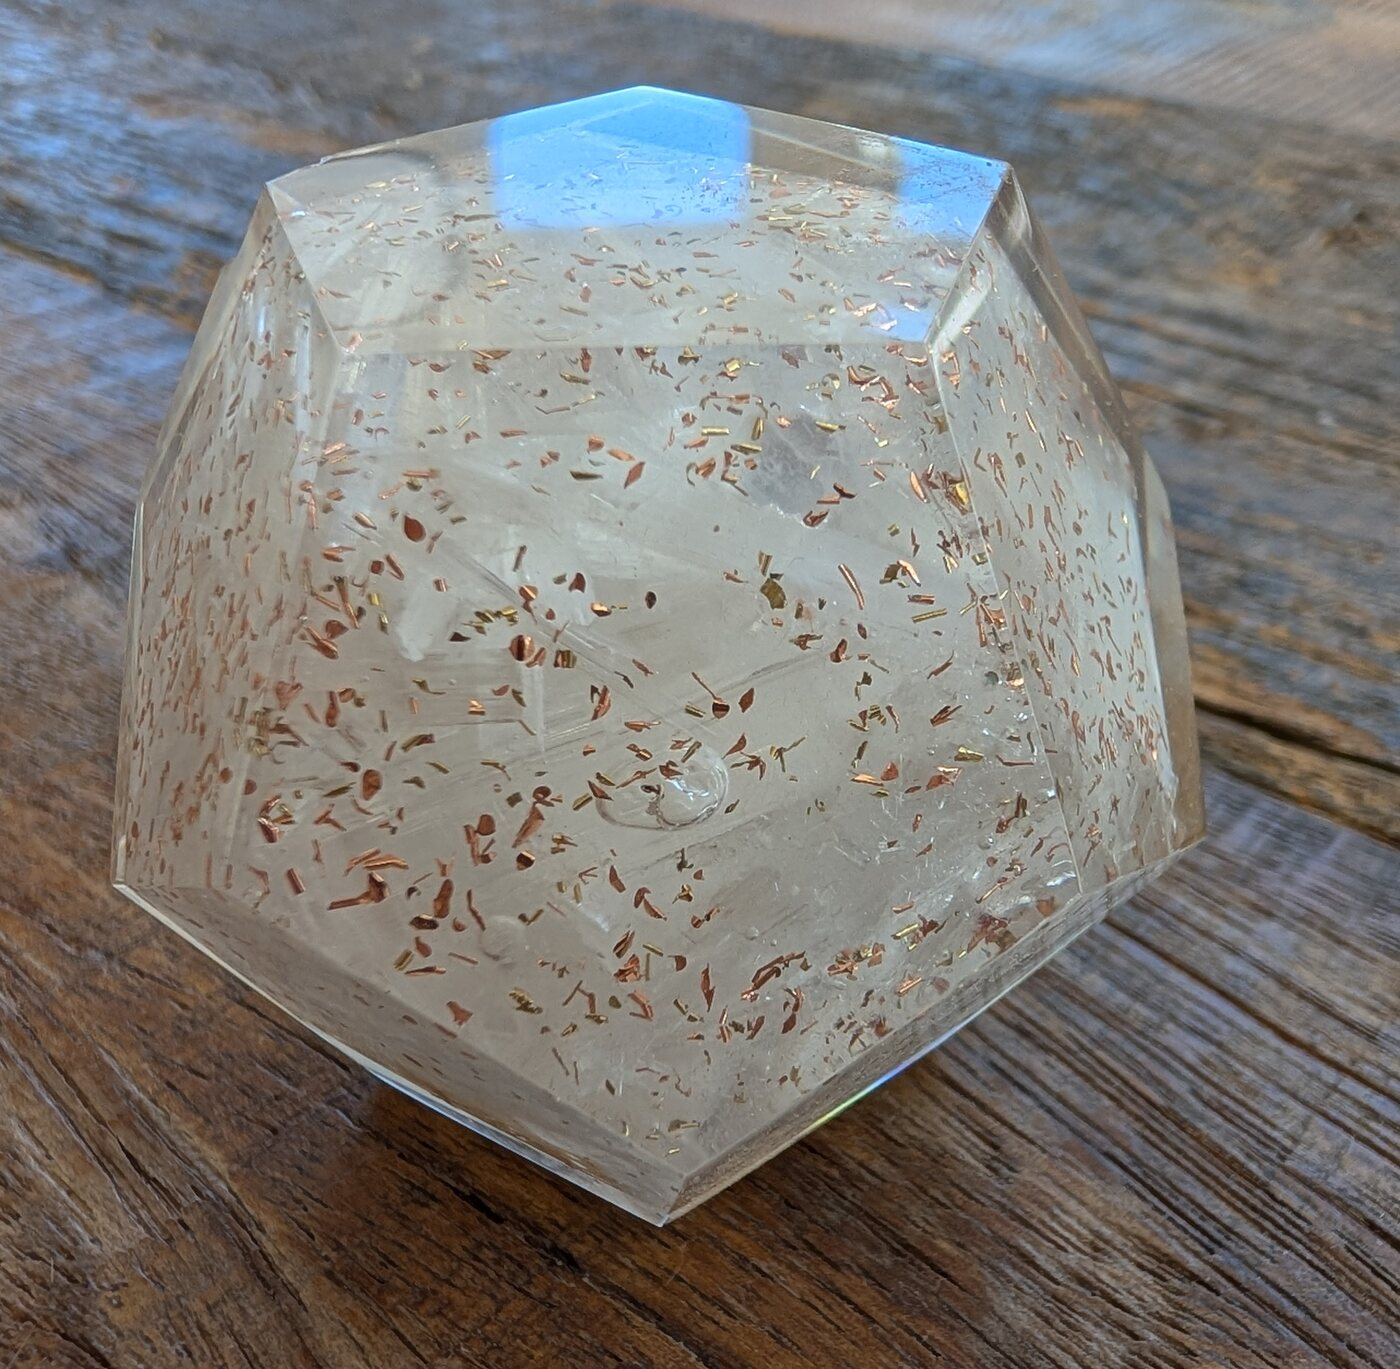
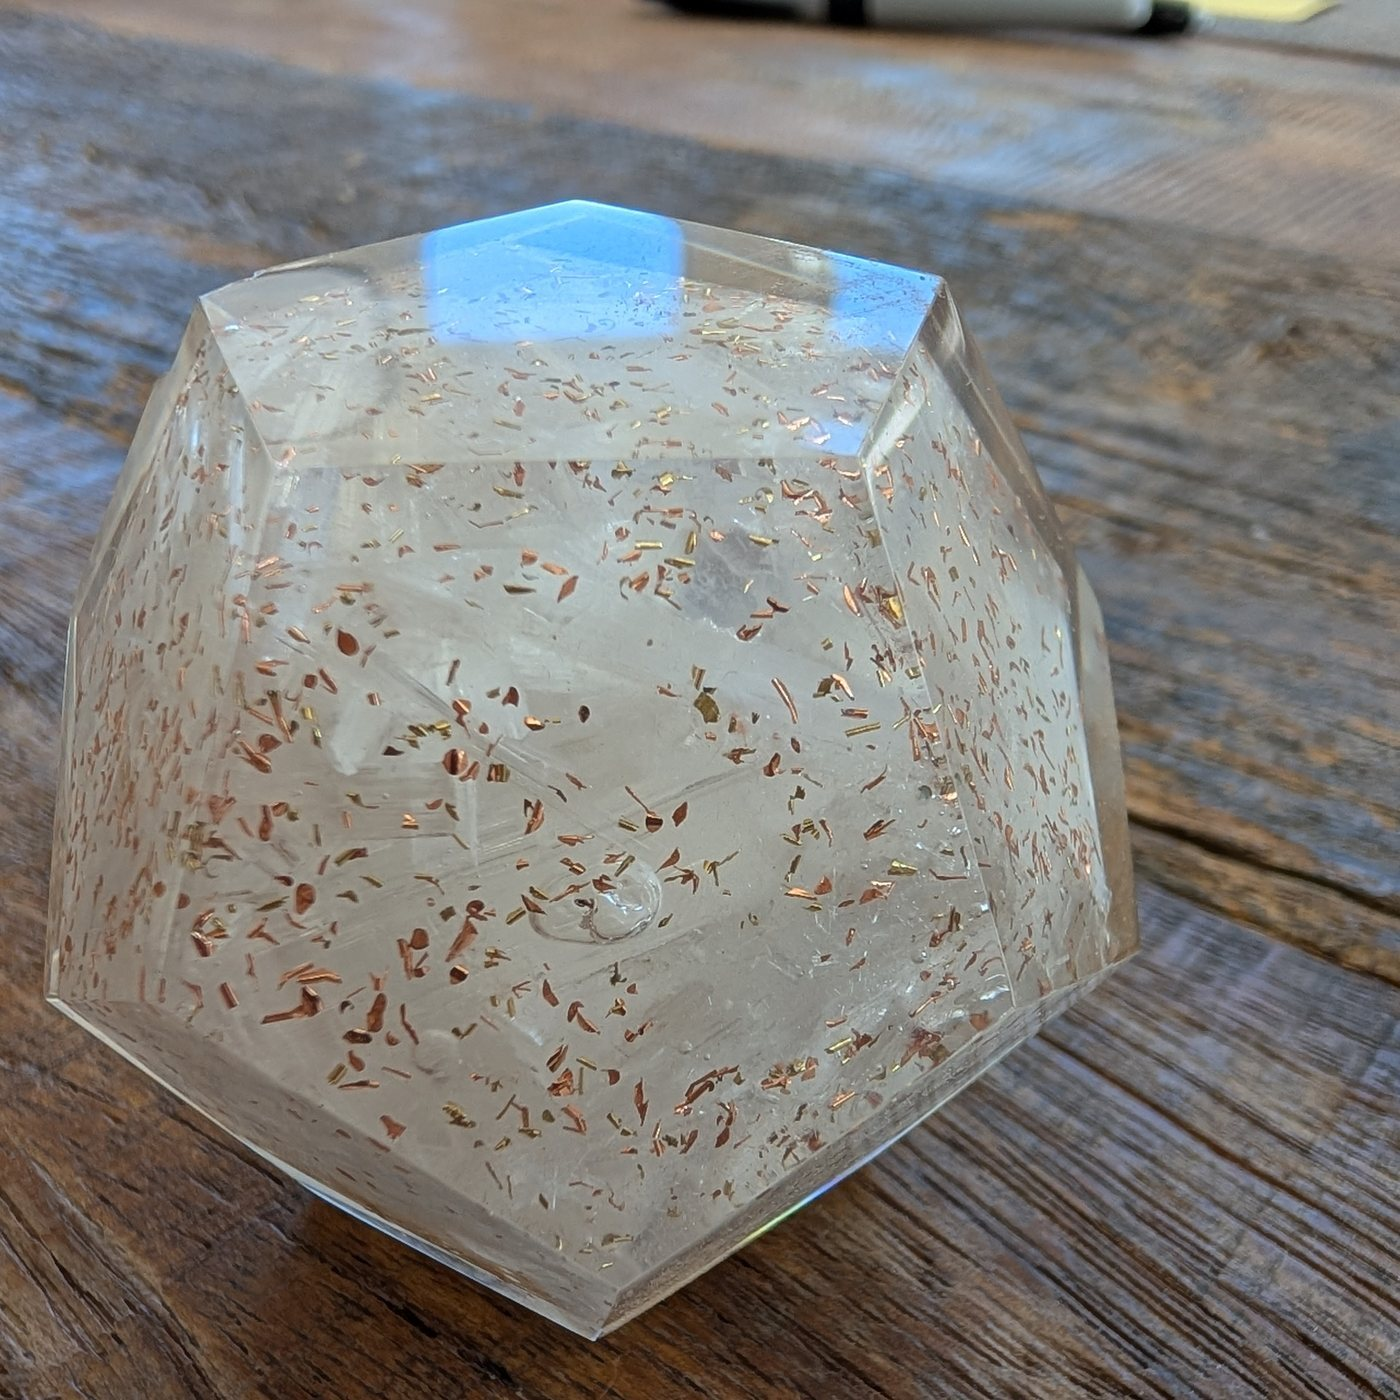
home: white text on the teal band; caption; 'what has been built'; the standpoint face on the upper half; the mini solid at a fuller angle; the crystal centred in its crop; the hero on the section rhythm
Claude-Session: https://claude.ai/code/session_01M39ycqxPkDJYbhkog2PHmg

diff --git a/assets/css/custom.css b/assets/css/custom.css
@@ -1970,9 +1970,9 @@ article:has(.privacy-section) > section.prose {
 .spl2-btn.spl2-primary:hover { background: var(--spl-teal-2); color: #fff; }
 .spl2-btn:hover { background: var(--spl-teal-wash); color: var(--spl-teal); }
 /* hero */
-.spl2 .spl2-hero { padding: 0; }
-.spl2 .spl2-hero-grid { display: grid; grid-template-columns: minmax(0, 1.05fr) minmax(0, .95fr); gap: clamp(1.5rem, 4vw, 4rem); align-items: center; min-height: min(78vh, 720px); }
-.spl2 .spl2-copy { padding: clamp(2.5rem, 6vw, 5rem) 0; }
+.spl2 .spl2-hero { padding: clamp(2.5rem, 5vw, 4rem) 0 clamp(3rem, 6vw, 4.5rem); }
+.spl2 .spl2-hero-grid { display: grid; grid-template-columns: minmax(0, 1.05fr) minmax(0, .95fr); gap: clamp(1.5rem, 4vw, 4rem); align-items: center; }
+.spl2 .spl2-copy { padding: 0; }
 .spl2 .spl2-copy h1 { margin-bottom: 1.1rem; }
 .spl2 .spl2-sub { font-size: 1.2rem; color: var(--spl-ink-2); max-width: 32ch; }
 .spl2 .spl2-desc { margin-top: 1.4rem; color: var(--spl-teal); font-weight: 500; }
@@ -2028,7 +2028,8 @@ article:has(.privacy-section) > section.prose {
 /* the layer */
 .spl2 .spl2-bands { margin-top: 2rem; display: flex; flex-direction: column; gap: 6px; }
 .spl2 .spl2-bandrow { display: grid; grid-template-columns: 14rem minmax(0, 1fr); gap: 1.5rem; padding: 1.2rem 1.4rem; border: 1px solid var(--spl-line); border-radius: 4px; background: var(--spl-cream); }
-.spl2 .spl2-bandrow.spl2-accent { background: var(--spl-teal); border-color: var(--spl-teal); color: #DCE9E8; }
+.spl2 .spl2-bandrow.spl2-accent { background: var(--spl-teal); border-color: var(--spl-teal); color: #fff; }
+.spl2 .spl2-bandrow.spl2-accent p { color: #fff; }
 .spl2 .spl2-bandrow.spl2-accent h3 { color: #fff; }
 .spl2 .spl2-bandrow.spl2-accent a { color: #fff; }
 /* who + asks */

diff --git a/layouts/_default/home.html b/layouts/_default/home.html
@@ -12,7 +12,7 @@
       </div>
       <figure class="spl2-hero-figure">
         {{ partial "spl2-picture.html" (dict "src" "images/crystal-square.jpg" "alt" "A clear twelve-sided crystal with copper flecks inside, on a wooden rail in evening sun, a garden behind it" "sizes" "(max-width: 860px) 100vw, 560px" "eager" true) }}
-        <figcaption>The object we hold up when we explain it.</figcaption>
+        <figcaption>Real, and in the room. Held up whenever this gets explained.</figcaption>
       </figure>
     </div>
   </section>
@@ -126,7 +126,7 @@
   <section id="built-so-far" class="spl2-status">
     <div class="spl2-prose">
       <h2>What has been built so far</h2>
-      <p>September 2026. We would rather show you the build than sell you the vision, so here is what one person and a set of agents have put in place.</p>
+      <p>September 2026. We would rather show you the build than sell you the vision, so here is what has been built.</p>
     </div>
     <dl class="spl2-statuslist">
       <dt>Node0</dt><dd>Sovereign infrastructure the layer runs on: two rooms, four racks, about fifty hosts, local AI models behind one gateway, in rooms the founder controls. Online since June 2026, production-ready since September, captured and documented on 20260920. The starter version, the site as it stands and the lessons are at <a href="https://oznog.com/node0">oznog.com/node0</a>.</dd>

diff --git a/tools/crystal-gen.py b/tools/crystal-gen.py
@@ -26,13 +26,18 @@ def rot(v,ax,ay,az=0):
     x,y = x*math.cos(az)-y*math.sin(az), x*math.sin(az)+y*math.cos(az)
     return (x,y,z)
 def build(AX,AY,AZ,cx,cy,s,seed,nfl=80,lit_rank=0,fleck=True):
+    cy_ref=cy
     P=[ (lambda r:(cx+r[0]*s, cy-r[1]*s, r[2]))(rot(v,AX,AY,AZ)) for v in V]
     fs=[]
     for fi,(n,idx) in enumerate(faces):
         depth=rot(n,AX,AY,AZ)[2]
         fs.append((depth,fi," ".join("%.1f,%.1f"%(P[i][0],P[i][1]) for i in idx)))
     fs.sort()
-    lit=sorted(fs,key=lambda t:-t[0])[lit_rank][1]
+    # the standpoint face: front-facing, and in the upper half of the figure (reads stronger than a lower face)
+    def face_y(fi): return sum(P[i][1] for i in faces[fi][1])/5
+    front=[t for t in sorted(fs,key=lambda t:-t[0]) if t[0]>0.15]
+    upper=[t for t in front if face_y(t[1])<cy_ref]
+    lit=(upper if upper else front)[min(lit_rank,len(upper if upper else front)-1)][1]
     parts=[]
     if fleck:
         random.seed(seed)
@@ -52,7 +57,7 @@ if __name__=="__main__":
     # 20260921: the site uses 0.6 0.0 0.0 1, matching the hero photograph (a top face tilted toward the viewer, the front face as the standpoint)
     AX,AY,AZ,rank=[float(x) for x in sys.argv[1:4]]+[int(sys.argv[4])]
     main,(cx,cy)=build(AX,AY,AZ,300,272,150,7,80,rank)
-    mini,_=build(AX+0.4,AY-0.5,0.3,700,150,64,11,40,0)
+    mini,_=build(0.45,0.35,0.15,700,150,64,11,40,0)
     svg=f'''<svg class="crystal" viewBox="0 0 860 540" role="img" aria-label="A faceted solid; one face is highlighted as a standpoint, and that face opens into a faceted solid of its own">
 <g class="s1">{main}</g>
 <g class="s3"><line class="lift" x1="{cx:.0f}" y1="{cy:.0f}" x2="700" y2="150"/>{mini}<text class="lbl" x="700" y="268" text-anchor="middle">one face, seen whole</text></g>
